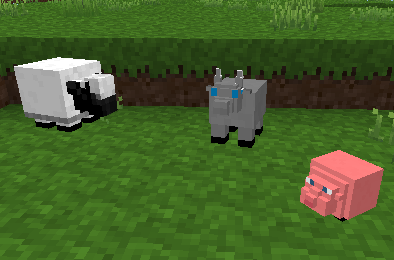
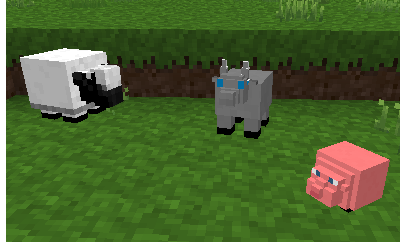
add screenshots

diff --git a/README.md b/README.md
@@ -18,10 +18,10 @@ https://github.com/RHRhino/mt_mods/tree/master/ccmobs
 
 This mod adds following animals:
 - cow
--goat
+- goat
 - pig
 - sheep
--treemonster
+- treemonster
 
 This mod adds following items:
 - animal cage
@@ -41,5 +41,6 @@ This mod uses PilzAdam's simple mob api.
 =====================
 
 ![Preview](https://raw.githubusercontent.com/Napiophelios/ccmobs/master/screenshot.png)![Preview](https://raw.githubusercontent.com/Napiophelios/ccmobs/master/screenshot_2.png)
+![Preview](https://raw.githubusercontent.com/Napiophelios/ccmobs/master/screenshot_3.png)
 
 =====================
